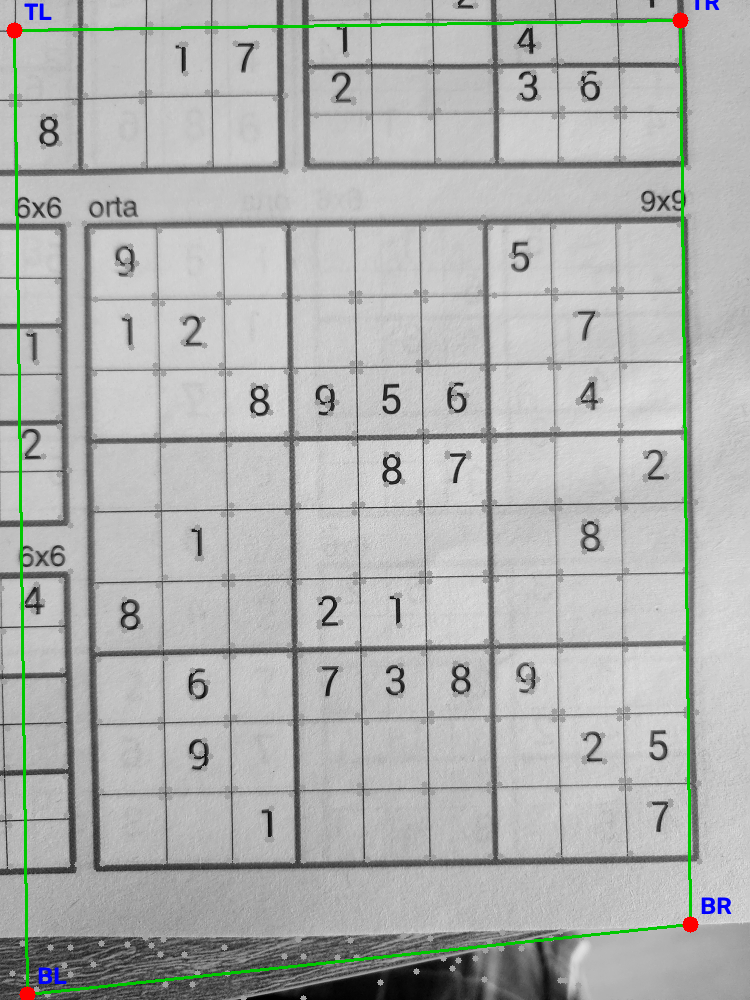
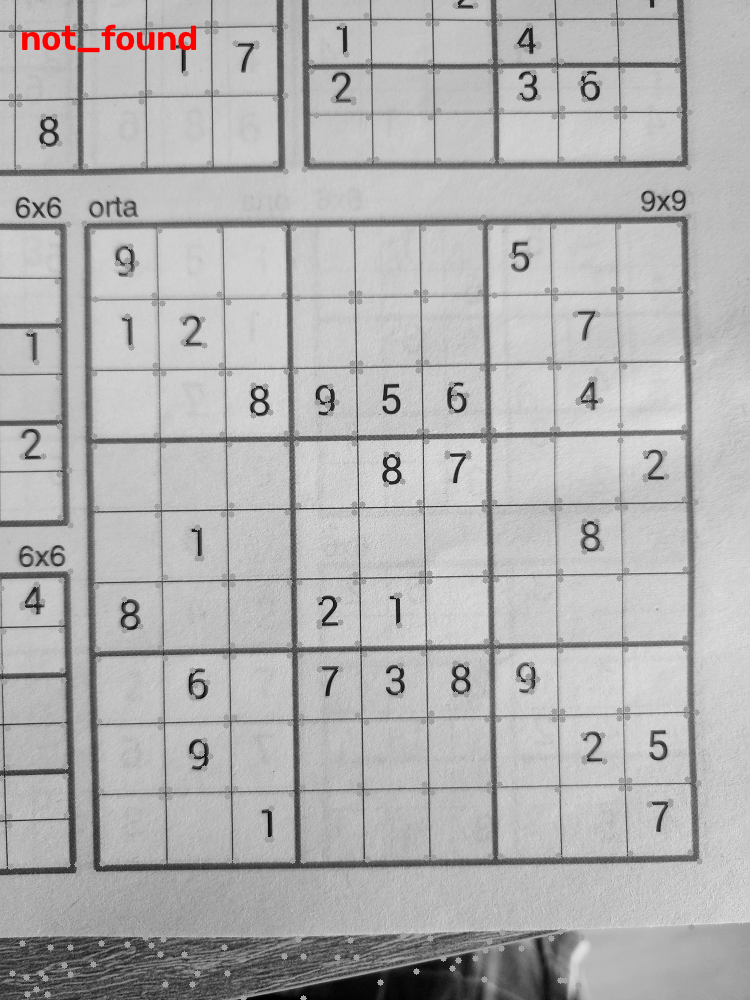
Add region mask filtering and outer corner selection to main script

diff --git a/sudoku_scan.py b/sudoku_scan.py
@@ -2,8 +2,7 @@ import cv2
 import numpy as np
 import os
 
-from corner_detector import CornerDetector
-from corner_detector import select_outer_corners
+from corner_detector import CornerDetector, select_outer_corners
 
 
 # Input images
@@ -28,18 +27,19 @@ adaptive_block = 31      # must be odd
 adaptive_c = 7
 
 
+# Line mask (used ONLY to find the puzzle region, not as Harris input).
+# Kernel length = image side / line_kernel_div. Longer kernels remove digits
+# but break rotated / slanted lines, so this goes into the parameter study.
+line_kernel_div = 80
+region_margin_ratio = 0.01   # region is grown by this fraction of the short side
+
+
 # Harris parameters (tuned for MAX_SIDE)
 harris_block_size = 3
 harris_ksize = 3
 harris_k = 0.04
 harris_threshold = 0.035
 nms_radius = 7
-
-
-# Sub-pixel refinement (applied only to the 4 selected corners)
-# The window is proportional to the working image size.
-subpix_win_ratio = 0.006
-subpix_criteria = (cv2.TERM_CRITERIA_EPS + cv2.TERM_CRITERIA_MAX_ITER, 40, 0.001)
 
 
 def save_results(base_dir, results):
@@ -60,55 +60,40 @@ def draw_points(gray, points, color=(0, 0, 255), radius=6):
     return vis
 
 
-def normalize_response(resp):
-    # Gamma lifts weak responses so the map is readable
-    r = np.clip(resp, 0, None)
-    if r.max() > 0:
-        r = r / r.max()
-    return (np.power(r, 0.25) * 255).astype(np.uint8)
-
-
-def refine_corners(img, pts, win):
+def make_region_mask(grid_mask, margin_ratio=region_margin_ratio):
     """
-    cornerSubPix on each selected point.
-    Points too close to the border are left as they are.
+    Puzzle region from the line mask: close gaps, take the largest outer
+    contour, fill its convex hull and grow it a little. This is only a
+    region; the corner coordinates still come from Harris candidates.
     """
-    h, w = img.shape[:2]
-    refined = []
-    for x, y in pts:
-        p = np.array([[[x, y]]], np.float32)
-        if win + 1 <= x < w - win - 1 and win + 1 <= y < h - win - 1:
-            cv2.cornerSubPix(img, p, (win, win), (-1, -1), subpix_criteria)
-        refined.append((float(p[0, 0, 0]), float(p[0, 0, 1])))
-    return refined
+    h, w = grid_mask.shape[:2]
+    k = max(3, int(round(min(h, w) * 0.01)) | 1)
+    kernel = np.ones((k, k), np.uint8)
+
+    closed = cv2.dilate(
+        cv2.morphologyEx(grid_mask, cv2.MORPH_CLOSE, kernel), kernel
+    )
+    contours, _ = cv2.findContours(
+        closed, cv2.RETR_EXTERNAL, cv2.CHAIN_APPROX_SIMPLE
+    )
+
+    region = np.zeros((h, w), np.uint8)
+    if not contours:
+        return region
+
+    largest = max(contours, key=cv2.contourArea)
+    cv2.fillConvexPoly(region, cv2.convexHull(largest), 255)
+
+    m = max(3, int(round(min(h, w) * margin_ratio)))
+    return cv2.dilate(region, np.ones((2 * m + 1, 2 * m + 1), np.uint8))
 
 
-def draw_selected(gray, candidates, selected):
-    """All candidates in grey, selected quad with TL/TR/BR/BL labels."""
-    vis = draw_points(gray, candidates, color=(160, 160, 160), radius=3)
-    if selected is None:
-        cv2.putText(vis, "not_found", (20, 50), cv2.FONT_HERSHEY_SIMPLEX,
-                    1.2, (0, 0, 255), 3)
-        return vis
-    pts = np.array(selected, np.int32)
-    cv2.polylines(vis, [pts.reshape(-1, 1, 2)], True, (0, 200, 0), 2)
-    for name, (x, y) in zip(["TL", "TR", "BR", "BL"], selected):
-        cv2.circle(vis, (int(x), int(y)), 8, (0, 0, 255), -1)
-        cv2.putText(vis, name, (int(x) + 10, int(y) - 10),
-                    cv2.FONT_HERSHEY_SIMPLEX, 0.8, (255, 0, 0), 2)
-    return vis
-
-
-def draw_chain(gray, candidates, anchor, chain, color=(0, 200, 0)):
-    """
-    Dev helper for chain collection: all candidates in grey,
-    the chain in colour, the anchor circled in red.
-    """
-    vis = draw_points(gray, candidates, color=(160, 160, 160), radius=3)
-    for x, y in chain:
-        cv2.circle(vis, (int(x), int(y)), 6, color, -1)
-    cv2.circle(vis, (int(anchor[0]), int(anchor[1])), 10, (0, 0, 255), 2)
-    return vis
+def filter_by_region(points, region):
+    h, w = region.shape[:2]
+    return [
+        (x, y) for x, y in points
+        if 0 <= int(x) < w and 0 <= int(y) < h and region[int(y), int(x)] > 0
+    ]
 
 
 for image_name in image_files:
@@ -178,12 +163,12 @@ for image_name in image_files:
 
     horizontal_kernel = cv2.getStructuringElement(
         cv2.MORPH_RECT,
-        (max(10, width // 40), 1)
+        (max(10, width // line_kernel_div), 1)
     )
 
     vertical_kernel = cv2.getStructuringElement(
         cv2.MORPH_RECT,
-        (1, max(10, height // 40))
+        (1, max(10, height // line_kernel_div))
     )
 
     horizontal_lines = cv2.morphologyEx(
@@ -204,9 +189,11 @@ for image_name in image_files:
     # 6. Harris Corner Detection (no dilate on the response: NMS does the job)
     corner_detector = CornerDetector()
 
-    # 6a. On the preprocessed grid mask (main input)
+    # 6a. On the adaptive-inverse mask WITHOUT line opening (main input):
+    # opening with horizontal/vertical kernels breaks rotated and slanted
+    # lines, which removes the candidates along the puzzle edges.
     prepared = cv2.GaussianBlur(
-        cv2.dilate(grid_image, np.ones((3, 3), np.uint8)), (5, 5), 0
+        cv2.dilate(inverted, np.ones((3, 3), np.uint8)), (5, 5), 0
     )
 
     harris_grid = cv2.cornerHarris(
@@ -237,37 +224,40 @@ for image_name in image_files:
     print(f"Harris candidates (raw gray):  {len(corner_points_gray)}")
 
 
-    # Candidates in original-image coordinates (kept for reference; the final
-    # output uses the selected and refined corners from step 7b)
-    corner_points_original = [(x / scale, y / scale) for x, y in corner_points]
+    # 7b. Restrict candidates to the puzzle region (line mask -> region only)
+    region = make_region_mask(grid_image)
+    candidates = filter_by_region(corner_points, region)
+    print(f"Candidates inside region:      {len(candidates)}")
 
 
-    # 7b. Outer corner selection (own rule) + sub-pixel refinement
-    selected = select_outer_corners(corner_points, gray.shape)
-    corners_original = None
+    # 7c. Select the 4 outer corners among the Harris candidates
+    outer = select_outer_corners(candidates, gray.shape)
 
-    if selected is None:
-        print("Outer corners: not_found")
+    if outer is None:
+        print("Outer corners: NOT FOUND")
+        outer_original = None
     else:
-        # Final sanity check only reports; whether to reject is your decision
-        ok, info = CornerDetector.check_quad(selected, gray.shape)
-        print(f"Quad check: {'ok' if ok else info['reasons']}")
-
-        win = max(3, int(round(subpix_win_ratio * max(gray.shape))))
-        selected = refine_corners(blurred, selected, win)
-
-        # Back to original-image coordinates (pixel-centre aware)
-        corners_original = [
-            ((x + 0.5) / scale - 0.5, (y + 0.5) / scale - 0.5)
-            for x, y in selected
-        ]
-        print(f"Corners (original coords): "
-              f"{np.round(corners_original, 1).tolist()}")
+        # Back to original-image coordinates (needed for the final output)
+        outer_original = [(x / scale, y / scale) for x, y in outer]
+        print("Outer corners (working size): "
+              + ", ".join(f"({x:.1f}, {y:.1f})" for x, y in outer))
+        print("Outer corners (original):     "
+              + ", ".join(f"({x:.1f}, {y:.1f})" for x, y in outer_original))
 
 
     # 8. Draw Harris Candidates
     harris_result = draw_points(gray, corner_points)
     harris_result_gray = draw_points(gray, corner_points_gray)
+
+    # Region contour (green), surviving candidates (red), selected corners (blue)
+    selected_result = draw_points(gray, candidates, (0, 0, 255), 4)
+    region_contours, _ = cv2.findContours(
+        region, cv2.RETR_EXTERNAL, cv2.CHAIN_APPROX_SIMPLE
+    )
+    cv2.drawContours(selected_result, region_contours, -1, (0, 255, 0), 2)
+    if outer is not None:
+        for x, y in outer:
+            cv2.circle(selected_result, (int(x), int(y)), 14, (255, 0, 0), 3)
 
 
     # 9. Save Results
@@ -280,11 +270,10 @@ for image_name in image_files:
         "lines/horizontal_lines.png": horizontal_lines,
         "lines/vertical_lines.png": vertical_lines,
         "lines/combined_grid.png": grid_image,
-        "corners/harris_response_grid.png": normalize_response(harris_grid),
-        "corners/harris_response_gray.png": normalize_response(harris_gray),
         "corners/harris_corners.png": harris_result,
         "corners/harris_corners_gray_input.png": harris_result_gray,
-        "corners/selected_corners.png": draw_selected(gray, corner_points, selected),
+        "corners/selected.png": selected_result,
+        "lines/region_mask.png": region,
     })
 
     print(f"Results saved for: {image_name}")
